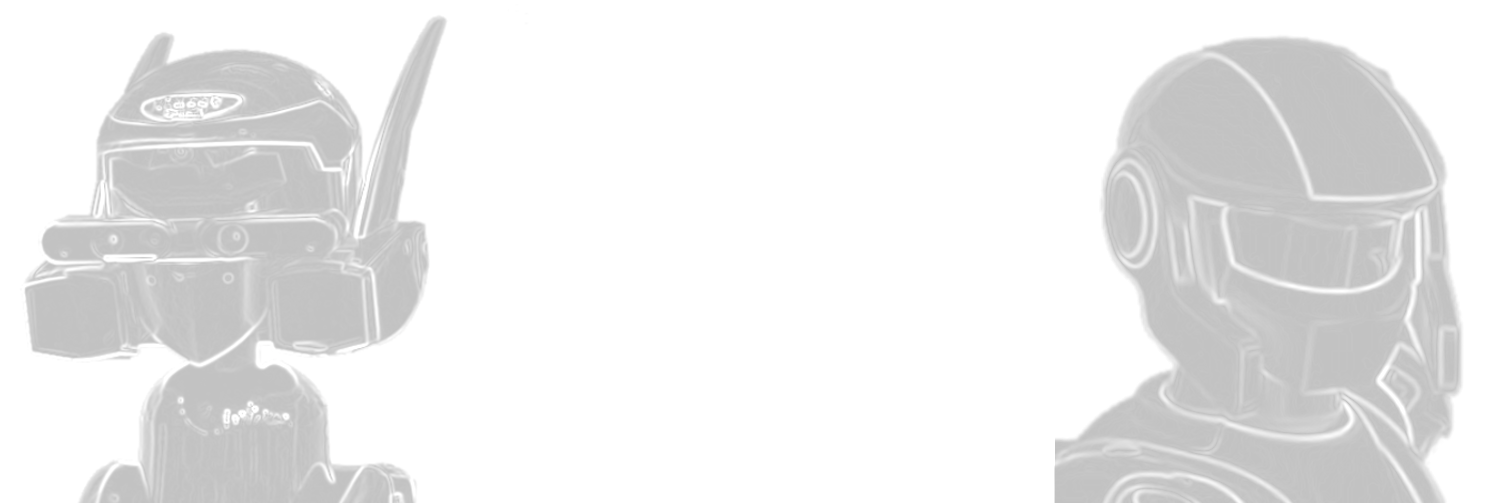
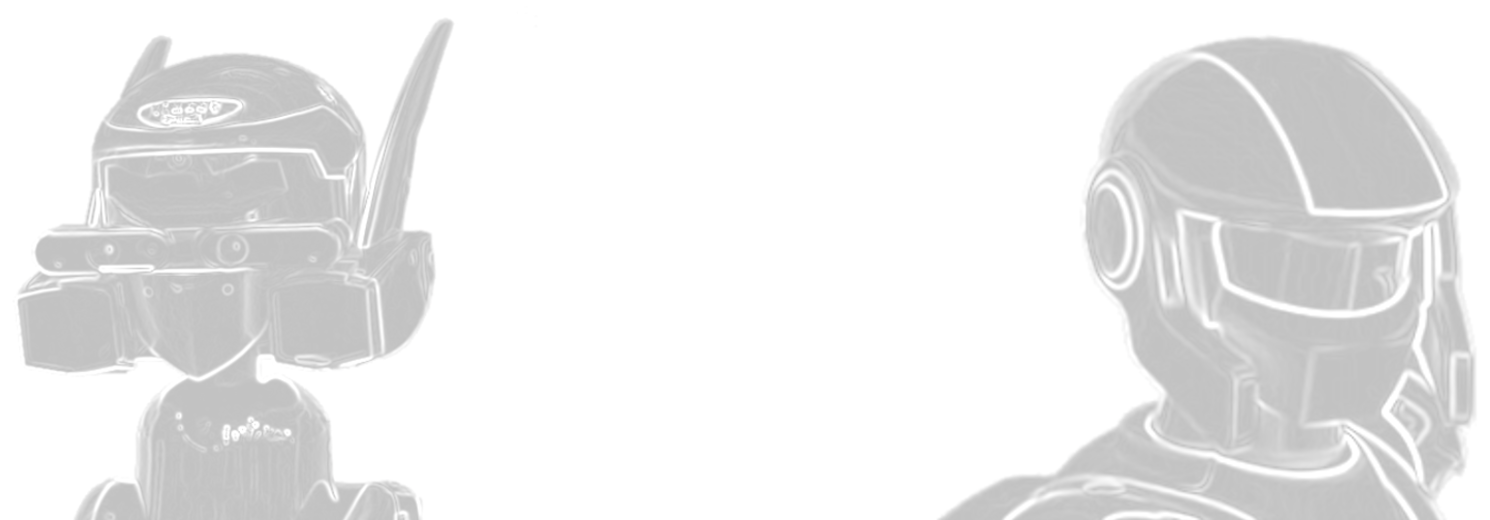
Remove blank space between background robots and content

diff --git a/css/jrl.css b/css/jrl.css
@@ -49,7 +49,6 @@
 .breadcrumbs-container {
   background:#222;
   color: #9d9d9d;
-  padding-bottom: 20px;
 }
 
 .breadcrumbs-container h1 {
@@ -111,12 +110,12 @@
    background-image: url('/assets/banner-large.png');
    background-repeat: no-repeat;
    background-position: center;
-   background-size: 1490px 503px;
-/*   -webkit-background-size: cover;
-   -moz-background-size: cover;
-   background-size: cover;
-   -o-background-size: cover;*/
+   background-size: 1490px 520px;
   }
+}
+
+.home-banner-xs {
+  padding-bottom: 20px;
 }
 
 @media screen and (max-width: 1490px) {
